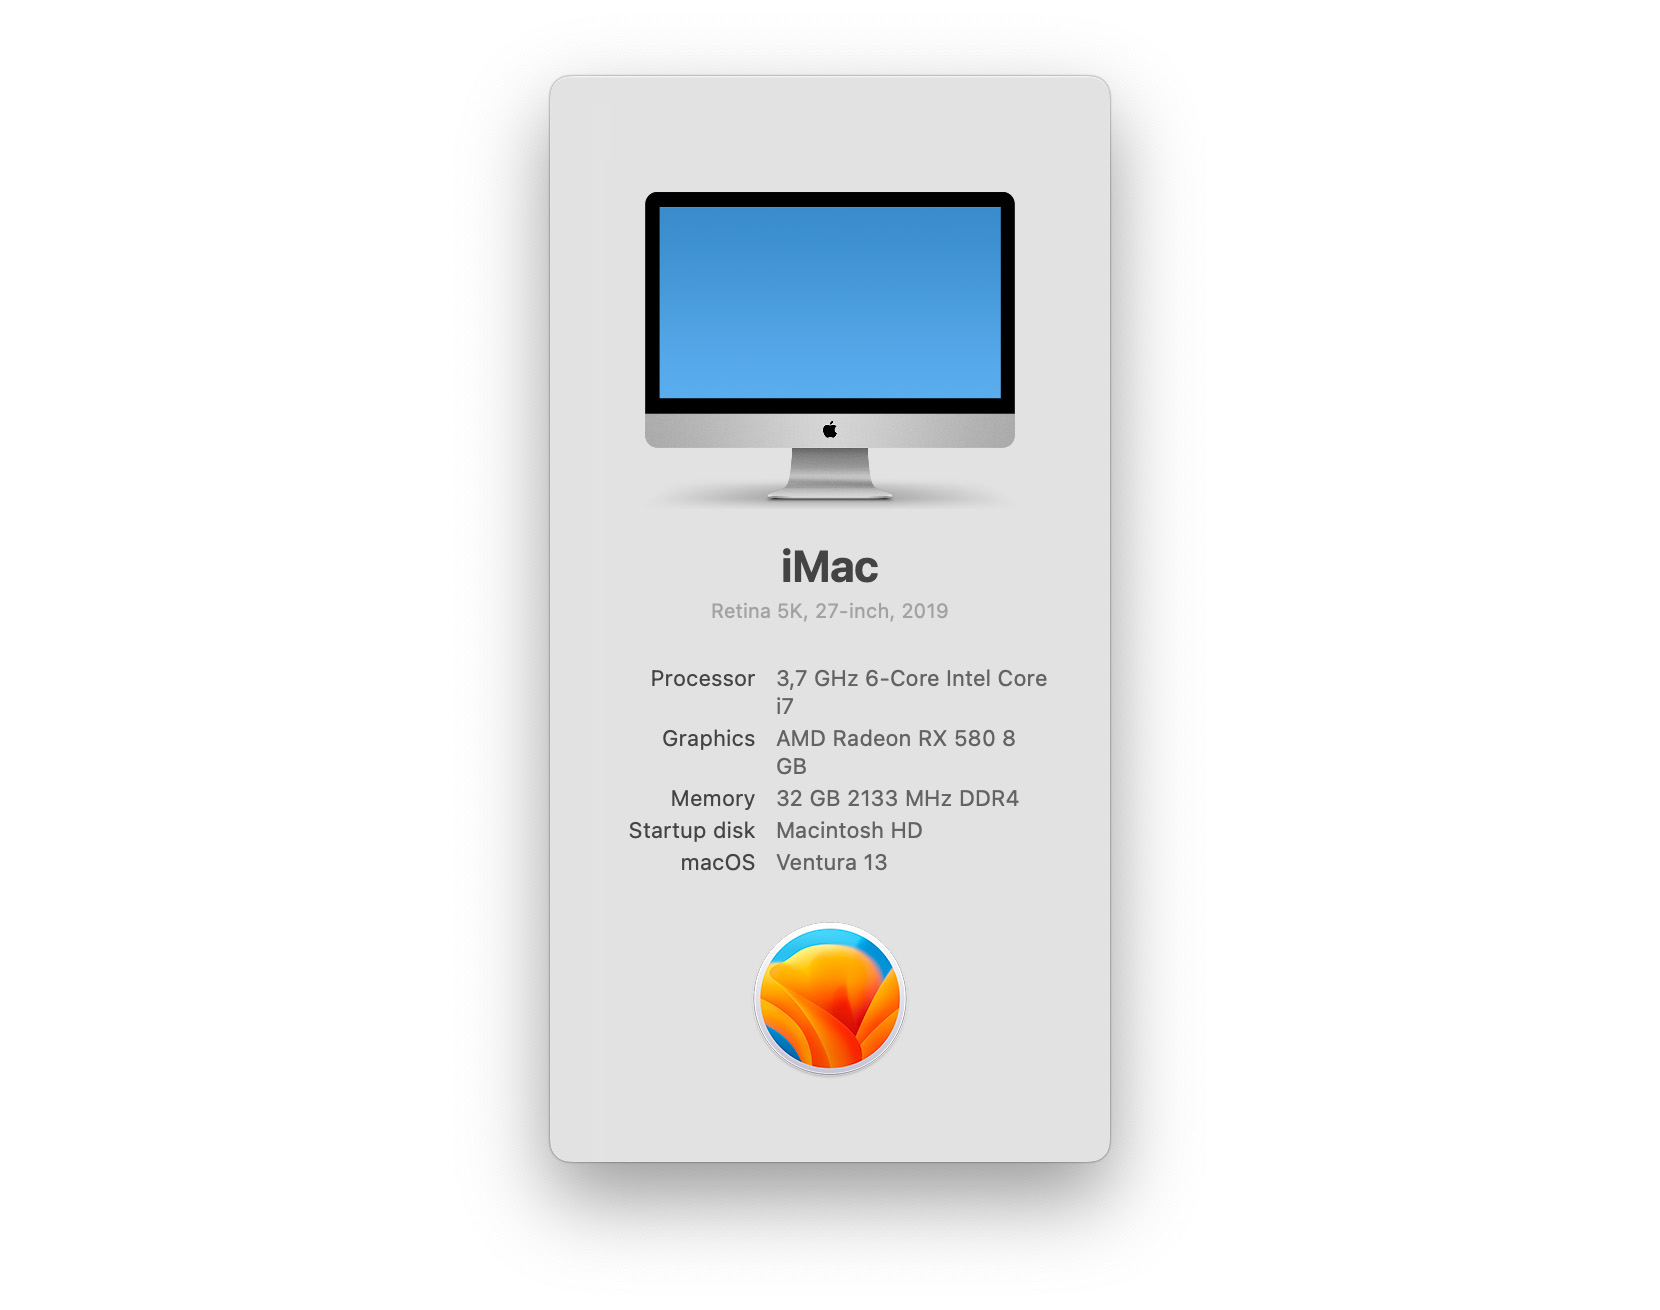
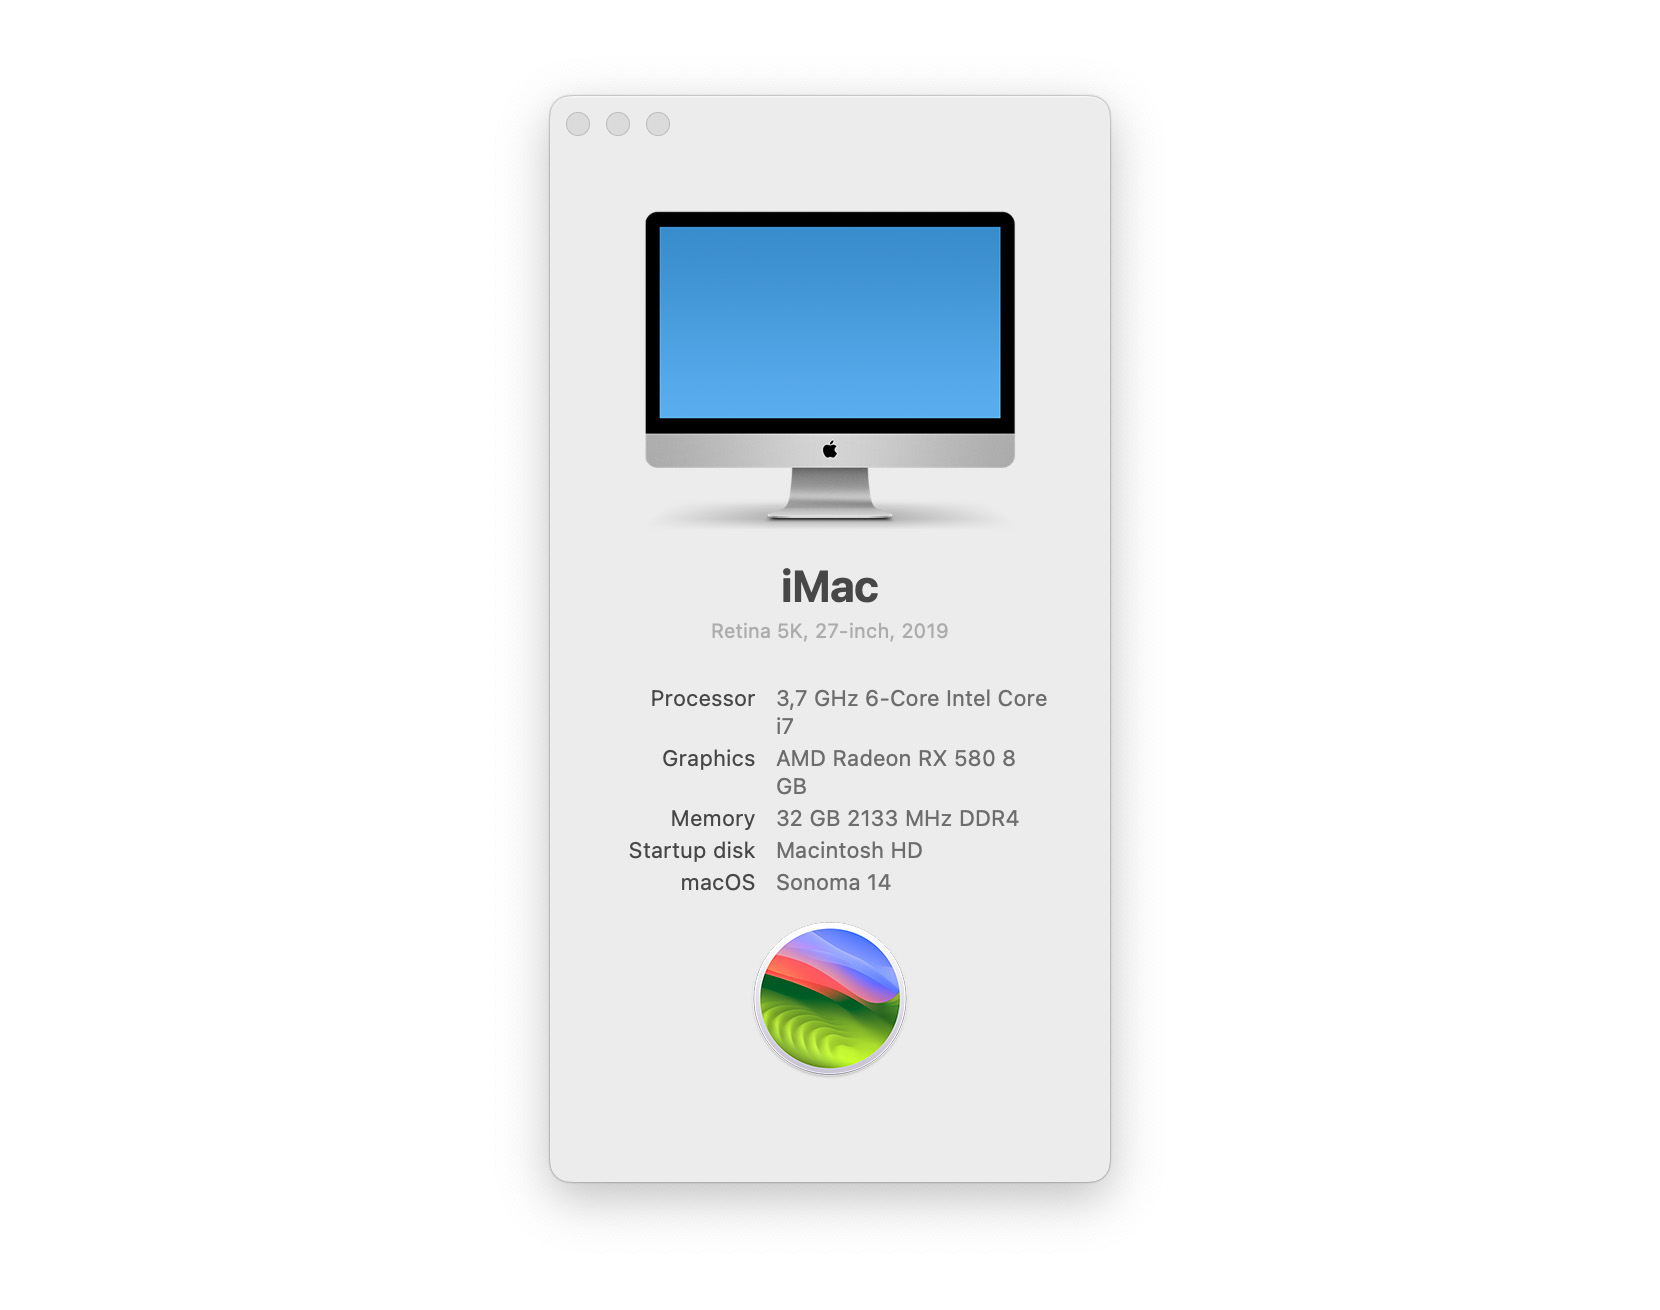
.

diff --git a/README.md b/README.md
@@ -1,5 +1,3 @@
-**Sorry, I no longer maintain this build, I've moved on with other projects. Thank you all for the support** ♥
-
 # OpenCore Gigabyte Z370n Wifi
 
 An OpenCore EFI for Gigabyte Z370n Wifi mini-ITX motherboard, with Coffee Lake processor. See compatible macOS versions in my releases. I'm using this build as a workstation. It is my fourth hackintosh build so far.
@@ -28,15 +26,13 @@ Remember to read the [anti-hackintosh buyers guide](https://dortania.github.io/A
 | SSD         | Samsung        | 970 EVO 500GB M.2 <sup>x1</sup> <br>840 EVO 250GB <sup>x1</sup>   | [NVMeFix](https://github.com/acidanthera/NVMeFix)                                                                                                      | _macOS <br>Windows_             |
 | HDD         | WD             | Green 3TB 3.5" <sup>x1</sup>                                      | built-in                                                                                                                                               |                                 |
 | Wifi        | Intel          | AC 8265NGW                                                        | [AirportItlwm](https://github.com/OpenIntelWireless/itlwm)                                                                                             |                                 |
-| Bluetooth   | Intel          | AC 8265NGW                                                        | [IntelBluetoothFirmware](https://github.com/OpenIntelWireless/IntelBluetoothFirmware) <br>[BlueToolFixup](https://github.com/acidanthera/BrcmPatchRAM) | _BlueToolFixup for macOS 12+ *_ |
+| Bluetooth   | Intel          | AC 8265NGW                                                        | [IntelBluetoothFirmware](https://github.com/OpenIntelWireless/IntelBluetoothFirmware) <br>[BlueToolFixup](https://github.com/acidanthera/BrcmPatchRAM) |                                 |
 | Ethernet    | Intel          | I219-V <sup>bottom port</sup> ~~<br>I211-AT <sup>top port</sup>~~ | [IntelMausi](https://github.com/acidanthera/IntelMausi)                                                                                                | _Only using I219-V_             |
 | Audio       | Realtek        | ALC1220                                                           | [AppleALC](https://github.com/acidanthera/AppleALC)                                                                                                    | _Layout-ID 5_                   |
 | PSU         | Corsair        | RM750X V2 750W                                                    |                                                                                                                                                        |                                 |
 | Case        | Fractal Design | Define Nano S                                                     |                                                                                                                                                        |                                 |
 | CPU cooler  | Cryorig        | H7                                                                |                                                                                                                                                        |                                 |
-| Display     | Dell           | U2723QE 27" <br>P2222H 22"                                        |                                                                                                                                                        |                                 |
-
-<sup>_* BlueToolFixup is needed for macOS 12 or later at the moment. Even for Intel Bluetooth. The fix works on this build._</sup><br>
+| Display     | Dell           | U2723QE 27" <br>P2722DE 22" <br>P2422H 24"                        |                                                                                                                                                        |                                 |
 
 ## BIOS setup
 Begin by loading optimized default options, then make sure settings are as below.
@@ -110,12 +106,20 @@ For audio layout i used **layout-ID 5**, it seemed most appropriate. Layout-ID 3
 <sup>_* The only difference between these layouts is that layout5.xml has the key MaximumBootBeepValue, value 64. It also has different PathMapID for SPDIFOut. To use S/PDIF with this motherboard however, you need to connect an expansion card, which I don't have, so I can't test it._</sup>
 
 ## What works?
-Almost everything works. Wifi and bluetooth (using the internal Intel card), dGPU + iGPU acceleration, HDMI audio, wake up from display sleep. Bottom Ethernet port, all USB ports (only some are enabled) including USB-C, all Audio ports. Sleep, AirDrop, Handoff, iMessage, FaceTime and other iServices. Only a [few minor things](#known-issues) does not work fully.
+Almost everything works. Wifi and bluetooth (using the internal Intel card), dGPU + iGPU acceleration, HDMI audio, wake up from display sleep. Bottom Ethernet port, all USB ports (only some are enabled) including USB-C, all Audio ports. Sleep, ~~AirDrop/Handoff/Continuity~~, iMessage, FaceTime and other iServices. Only a [few minor things](#known-issues) does not work fully.
 
 ## Known issues
+- [ ] AirDrop/Handoff/Continuity does not work after Sonoma update.
+
+<sup>_macOS no longer natively supports any wireless cards at all. Perhaps future drivers will solve issue?_</sup>
+
+- [x] TRIM during boot takes a long while if it's activated.
+
+<sup>_Samsung SSD's are not macOS TRIM-supported. Fixed by setting key SetApfsTrimTimeout to 0. Build now boots instantaneously._</sup>
+
 - [ ] Continuity Camera does not work wirelessly, only works with USB connection.
 
-<sup>_Have yet to debug why continuity camera does not work. Perhaps future drivers will solve issue?_</sup>
+<sup>_macOS no longer natively supports any wireless cards at all. Perhaps future drivers will solve issue?_</sup>
 
 - [ ] Using wifi and bluetooth simultaneously can be buggy with current drivers.
 
@@ -123,9 +127,9 @@ Almost everything works. Wifi and bluetooth (using the internal Intel card), dGP
 
 - [ ] I211-AT top ethernet port is not working after Monterey update. It shows up in Network settings, but can't connect to anything.
 
-<sup>_Don't mind this, since I'm only using one ethernet port. There are some pre-releases of kexts to get the second port working, but I chose not to use them due to instability._</sup>
+<sup>_I don't mind this, since I'm only using one ethernet port. There are some pre-releases of kexts to get the second port working, but I chose not to use them due to instability._</sup>
 
-- [ ] System hangs with Windows Memory integrity enabled.
+- [x] System hangs with Windows Memory integrity enabled.
 
 <sup>_Running dual OS system, macOS + Windows, enabling Device security > Memory integrity in Windows, system hangs during startup, at the BIOS logo. You will never get past the logo to the OpenCore boot picker. BE AWARE to not enabling this setting in Windows._</sup>
 
@@ -189,4 +193,4 @@ Apple for macOS<br>
 [khronokernel](https://github.com/khronokernel) for drivers<br>
 [headkaze](https://github.com/headkaze) for Hackintool<br>
 [xzhih](https://github.com/xzhih) for HiDPI<br>
-And everyone from the OpenCore community 🖤
+And everyone from the OpenCore community ♥
